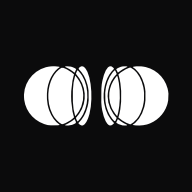
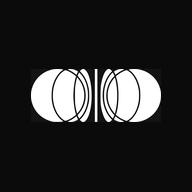
Add files via upload

Changed region(s): [[0.125, 0.3438, 0.9062, 0.6562]]

diff --git a/index.html b/index.html
@@ -11,6 +11,9 @@
 <meta name="apple-mobile-web-app-title" content="Worldsense">
 <link rel="apple-touch-icon" href="icon-192.png">
 <title>Worldsense OS</title>
+<link rel="preconnect" href="https://neqfafmddbojxlbstrhr.supabase.co" crossorigin>
+<link rel="preconnect" href="https://cdn.jsdelivr.net" crossorigin>
+<link rel="preload" as="script" href="https://cdn.jsdelivr.net/npm/@supabase/supabase-js@2" crossorigin>
 <link rel="preconnect" href="https://fonts.googleapis.com">
 <link rel="preconnect" href="https://fonts.gstatic.com" crossorigin>
 <link href="https://fonts.googleapis.com/css2?family=Space+Grotesk:wght@500;600&family=Inter:wght@400;500;600&family=JetBrains+Mono:wght@400;500;600&display=swap" rel="stylesheet">
@@ -226,8 +229,7 @@
   #boot-loader{position:fixed;inset:0;z-index:9999;background:#0B0B0C;display:flex;flex-direction:column;align-items:center;justify-content:center;gap:26px;transition:opacity .45s ease;}
   #boot-loader.off{opacity:0;pointer-events:none;}
   #boot-loader .bl-mark{animation:blpulse 2.2s ease-in-out infinite;}
-  #boot-loader .bl-mark svg{display:block;height:auto;}
-  #boot-loader .bl-mark svg path{fill:#EDEDEF;}
+  #boot-loader .bl-mark img{display:block;height:auto;}
   @keyframes blpulse{0%,100%{opacity:.55;transform:scale(.97);}50%{opacity:1;transform:scale(1);}}
   #boot-loader .bl-dots{display:flex;gap:8px;}
   #boot-loader .bl-dots span{width:5px;height:5px;border-radius:50%;background:#4a4a52;animation:bldot 1.3s ease-in-out infinite;}
@@ -240,9 +242,7 @@
 </head>
 <body>
 <div id="boot-loader">
-  <div class="bl-mark"><svg width="132" xmlns="http://www.w3.org/2000/svg" viewBox="-24.55685 258.835 968.7378500000001 422.176">
-<path d="M157.424 282.597C63.7626 298.35 -4.55685 383.449 0.237499 478.48C4.34694 562.039 60.8518 630.872 143.726 653.474C156.225 656.898 161.876 657.412 189.614 657.241C207.079 657.241 223.004 656.556 225.229 655.529C228.825 653.988 228.312 653.474 217.695 645.426C191.327 625.393 167.526 587.038 156.054 545.772C148.691 519.232 146.294 499.883 146.294 469.063C146.294 426.941 152.458 395.435 167.697 360.847C180.197 332.081 202.799 302.801 222.661 289.617C226.257 287.22 228.312 284.823 227.455 284.309C224.202 282.254 201.771 279.857 187.046 280.028C178.656 280.199 165.3 281.227 157.424 282.597Z" fill="white"/><path d="M264.268 281.229C259.645 282.428 260.501 283.113 277.282 291.331C287.042 296.126 301.253 304.858 308.616 310.509C322.314 321.125 324.883 322.495 324.883 319.07C324.883 318.214 326.937 313.077 329.335 307.94C331.732 302.632 333.444 298.181 333.273 298.009C329.506 294.756 316.835 288.249 308.616 285.167C297.829 281.058 273.686 279.003 264.268 281.229Z" fill="white"/><path d="M361.703 282.602C358.963 283.972 355.196 286.54 353.484 288.081C346.635 294.245 346.806 295.786 357.422 307.087C382.592 333.97 399.03 368.387 408.961 415.131C414.269 439.446 414.783 496.978 409.989 519.58C404.681 544.921 398.516 564.27 390.126 582.249C380.195 603.138 370.949 617.008 357.08 631.905L346.635 643.034L351.6 648.171C358.278 655.191 364.442 658.273 371.976 658.273C385.161 658.273 401.256 636.528 412.043 604.166C446.974 499.889 429.509 315.991 381.565 283.801C374.716 279.177 368.894 278.835 361.703 282.602Z" fill="white"/><path d="M231.221 295.272C184.989 326.092 155.367 393.556 155.367 468.211C155.367 517.866 166.497 561.187 189.099 598.857C202.626 621.459 233.275 649.711 244.234 649.711C256.22 649.711 294.917 628.65 312.553 612.726L319.745 606.048L315.635 592.008C307.588 564.782 300.91 510.161 300.91 471.121C300.91 430.027 307.074 377.46 315.293 347.496L319.574 332.085L313.238 326.435C302.28 316.675 277.109 300.751 263.925 295.272C244.234 287.053 243.378 287.053 231.221 295.272Z" fill="white"/><path d="M336.178 315.99C333.781 321.64 331.727 326.948 331.727 327.804C331.727 328.66 336.692 335.509 342.685 343.043C403.813 418.897 403.128 524.201 340.973 597.658C335.836 603.651 331.727 609.472 331.727 610.5C331.727 613.582 340.63 632.588 342 632.588C344.569 632.588 361.006 613.582 368.54 601.767C419.052 523.859 415.628 395.61 361.178 326.092C353.644 316.503 343.37 305.545 341.829 305.545C341.315 305.545 338.747 310.168 336.178 315.99Z" fill="white"/><path d="M322.657 357.942C313.411 396.639 312.041 411.707 312.041 469.924C312.041 528.141 313.411 541.668 322.657 580.366L327.109 599.029L332.931 592.351C370.087 549.716 386.011 488.588 374.539 432.597C367.518 398.18 355.19 373.01 331.218 344.244L327.109 339.107L322.657 357.942Z" fill="white"/><path d="M317.176 621.628C307.759 629.676 283.958 644.743 271.63 650.394C261.185 655.36 259.987 656.216 263.411 657.072C277.281 660.839 303.992 656.901 319.402 649.024C334.642 641.148 334.299 641.833 328.477 628.648C325.566 622.313 323.169 617.176 322.827 617.176C322.484 617.347 320.087 619.231 317.176 621.628Z" fill="white"/><path d="M543.204 282.429C524.026 292.018 506.048 335.68 496.63 394.754C492.692 419.582 492.178 512.729 495.774 538.413C504.335 598.513 522.999 645.772 542.519 655.874C551.423 660.326 558.272 658.957 567.347 650.738L575.566 643.375L566.662 633.444C533.615 597.315 514.951 551.769 509.643 494.75C503.137 423.177 525.567 347.666 565.463 306.743C570.6 301.435 574.881 296.47 574.881 295.613C574.881 293.73 564.607 284.141 559.984 281.744C554.847 279.176 549.368 279.347 543.204 282.429Z" fill="white"/><path d="M623.674 282.257C613.401 284.825 600.559 290.304 593.71 295.27L588.744 298.866L593.71 309.139C596.449 314.961 598.847 319.926 599.36 320.269C599.703 320.783 606.723 315.988 614.942 309.824C623.161 303.831 637.201 295.099 646.448 290.647C662.029 282.941 662.714 282.428 657.92 281.4C649.53 279.517 632.921 280.031 623.674 282.257Z" fill="white"/><path d="M705.524 281.915C699.531 282.771 694.737 284.141 694.737 284.997C694.737 285.682 697.819 288.25 701.757 290.819C712.544 298.01 727.955 314.619 738.571 330.715C754.666 354.686 766.823 386.535 772.987 420.266C777.097 443.211 777.097 495.092 772.816 518.722C762.371 576.939 733.263 627.622 696.449 651.594C692.34 654.333 692.34 654.333 703.469 656.388C730.01 661.011 769.22 657.587 794.391 648.683C855.348 626.937 900.723 577.966 916.818 516.496C922.64 494.065 924.181 458.621 920.071 436.704C904.832 355.885 843.19 295.442 762.543 282.429C745.249 279.689 721.791 279.347 705.524 281.915Z" fill="white"/><path d="M665.452 292.36C644.391 301.093 619.905 316.332 606.378 329.174L602.783 332.598L606.892 346.981C626.069 412.904 625.556 531.564 605.865 596.288L602.611 606.904L613.912 615.979C632.918 631.047 647.13 639.094 667.849 646.971L678.807 651.08L687.882 645.772C701.238 638.067 718.703 620.944 729.662 604.506C746.271 579.679 757.4 549.714 764.078 511.873C767.331 493.38 767.845 452.628 764.934 432.423C758.085 382.425 738.394 338.762 710.313 310.51C699.354 299.552 682.917 288.422 677.609 288.422C676.239 288.422 670.76 290.305 665.452 292.36Z" fill="white"/><path d="M573.678 311.023C547.651 338.419 529.159 378.658 521.625 424.547C517.002 453.141 517.687 498.859 523.337 524.714C532.07 565.466 548.679 599.712 571.281 624.197C581.041 634.813 581.554 634.642 587.719 619.745L591.828 609.643L584.636 601.424C547.823 558.617 529.673 503.653 535.494 451.258C540.289 407.081 557.069 368.042 583.267 339.447L592.17 329.687L587.376 318.215C584.808 311.879 581.726 306.4 580.869 306.058C579.842 305.715 576.589 307.941 573.678 311.023Z" fill="white"/><path d="M591.476 343.899C567.333 373.007 554.491 399.205 547.47 433.793C539.08 475.059 546.614 523.173 567.161 559.816C572.812 569.918 593.017 598.342 594.558 598.342C596.27 598.342 601.064 578.479 604.831 556.22C615.276 495.606 613.906 423.348 601.407 364.446C596.441 340.646 595.585 338.933 591.476 343.899Z" fill="white"/><path d="M593.888 628.651C589.607 637.555 588.751 640.295 590.634 641.493C608.784 653.479 623.852 658.273 642.516 658.273C664.262 658.273 664.604 657.075 646.112 648C631.729 640.808 620.599 633.617 603.819 620.775L599.538 617.35L593.888 628.651Z" fill="white"/>
-</svg></div>
[1 lines of base64/hex data omitted]
   <div class="bl-dots"><span></span><span></span><span></span></div>
 </div>
 <div id="mobiletop">
@@ -299,22 +299,32 @@ async function sGet(k){try{const tbl=PRIVATE_KEYS.has(k)?'app_private':'app_shar
 async function sSet(k,v){try{const tbl=PRIVATE_KEYS.has(k)?'app_private':'app_shared';const r=await sb.from(tbl).upsert({key:k,value:v,updated_at:new Date().toISOString()});if(r.error)throw r.error;}catch(e){toast(t('Ошибка синхронизации','Sync error'));}}
 function save(p){if(KEY[p])sSet(KEY[p],DB[p]);}
 async function loadAll(){
-  const s=await sGet(KEY.settings);
-  DB.settings=s||{fx:12650,entities:[]};
+  /* 2 параллельных запроса вместо 11 последовательных — старт в разы быстрее */
+  let map={};
+  try{
+    const [sh,pr]=await Promise.all([
+      sb.from('app_shared').select('key,value'),
+      sb.from('app_private').select('key,value')
+    ]);
+    (sh.data||[]).forEach(r=>{map[r.key]=r.value;});
+    (pr.data||[]).forEach(r=>{map[r.key]=r.value;});
+  }catch(e){}
+  const g=k=>(map[k]!==undefined&&map[k]!==null)?map[k]:null;
+  DB.settings=g(KEY.settings)||{fx:12650,entities:[]};
   if(!DB.settings.fx)DB.settings.fx=12650;
   if(!Array.isArray(DB.settings.entities))DB.settings.entities=[];
   DB.settings.entities.forEach(e=>{if(!Array.isArray(e.shareholders))e.shareholders=[];});
-  DB.costs=await sGet(KEY.costs)||[];
-  DB.income=await sGet(KEY.income)||[];
-  DB.tasks=await sGet(KEY.tasks)||[];
-  DB.debts=await sGet(KEY.debts)||[];
-  DB.docs=await sGet(KEY.docs)||[];
-  DB.invoices=await sGet(KEY.invoices)||[];
-  DB.contracts=await sGet(KEY.contracts)||[];
-  DB.orders=await sGet(KEY.orders)||[];
-  DB.payroll=await sGet(KEY.payroll)||{people:[]};
+  DB.costs=g(KEY.costs)||[];
+  DB.income=g(KEY.income)||[];
+  DB.tasks=g(KEY.tasks)||[];
+  DB.debts=g(KEY.debts)||[];
+  DB.docs=g(KEY.docs)||[];
+  DB.invoices=g(KEY.invoices)||[];
+  DB.contracts=g(KEY.contracts)||[];
+  DB.orders=g(KEY.orders)||[];
+  DB.payroll=g(KEY.payroll)||{people:[]};
   if(!Array.isArray(DB.payroll.people))DB.payroll.people=[];
-  DB.tx=await sGet(KEY.tx)||[];
+  DB.tx=g(KEY.tx)||[];
 }
 
 /* ── helpers ── */
@@ -1195,10 +1205,11 @@ async function logout(){try{await sb.auth.signOut();}catch(e){}sbProfile=null;do
 async function afterLogin(){
   let session=null;try{const r=await sb.auth.getSession();session=r.data&&r.data.session;}catch(e){}
   if(!session){showLogin();return;}
-  let prof=null;try{const r=await sb.from('profiles').select('*').eq('id',session.user.id).maybeSingle();prof=r.data;}catch(e){}
+  let prof=null;
+  const profQ=sb.from('profiles').select('*').eq('id',session.user.id).maybeSingle();
+  await Promise.all([loadAll(),profQ.then(r=>{prof=r.data;}).catch(()=>{})]);
   sbProfile=prof||{name:session.user.email};
   if(!sbProfile.email)sbProfile.email=session.user.email;
-  await loadAll();
   view='dash';
   hideLogin();render();hideBootLoader();
   toast(t('Вход выполнен','Signed in')+' · '+(sbProfile.name||session.user.email||''));

diff --git a/sw.js b/sw.js
@@ -2,7 +2,7 @@
    Стратегия network-first: всегда пробуем сеть (чтобы обновления
    подхватывались сразу), при офлайне отдаём кэшированную оболочку.
    При изменении файлов повышай версию CACHE — старый кэс удалится сам. */
-const CACHE = 'ws-os-v13';
+const CACHE = 'ws-os-v16';
 const SHELL = ['./', './index.html', './manifest.webmanifest', './icon-192.png'];
 
 self.addEventListener('install', (e) => {